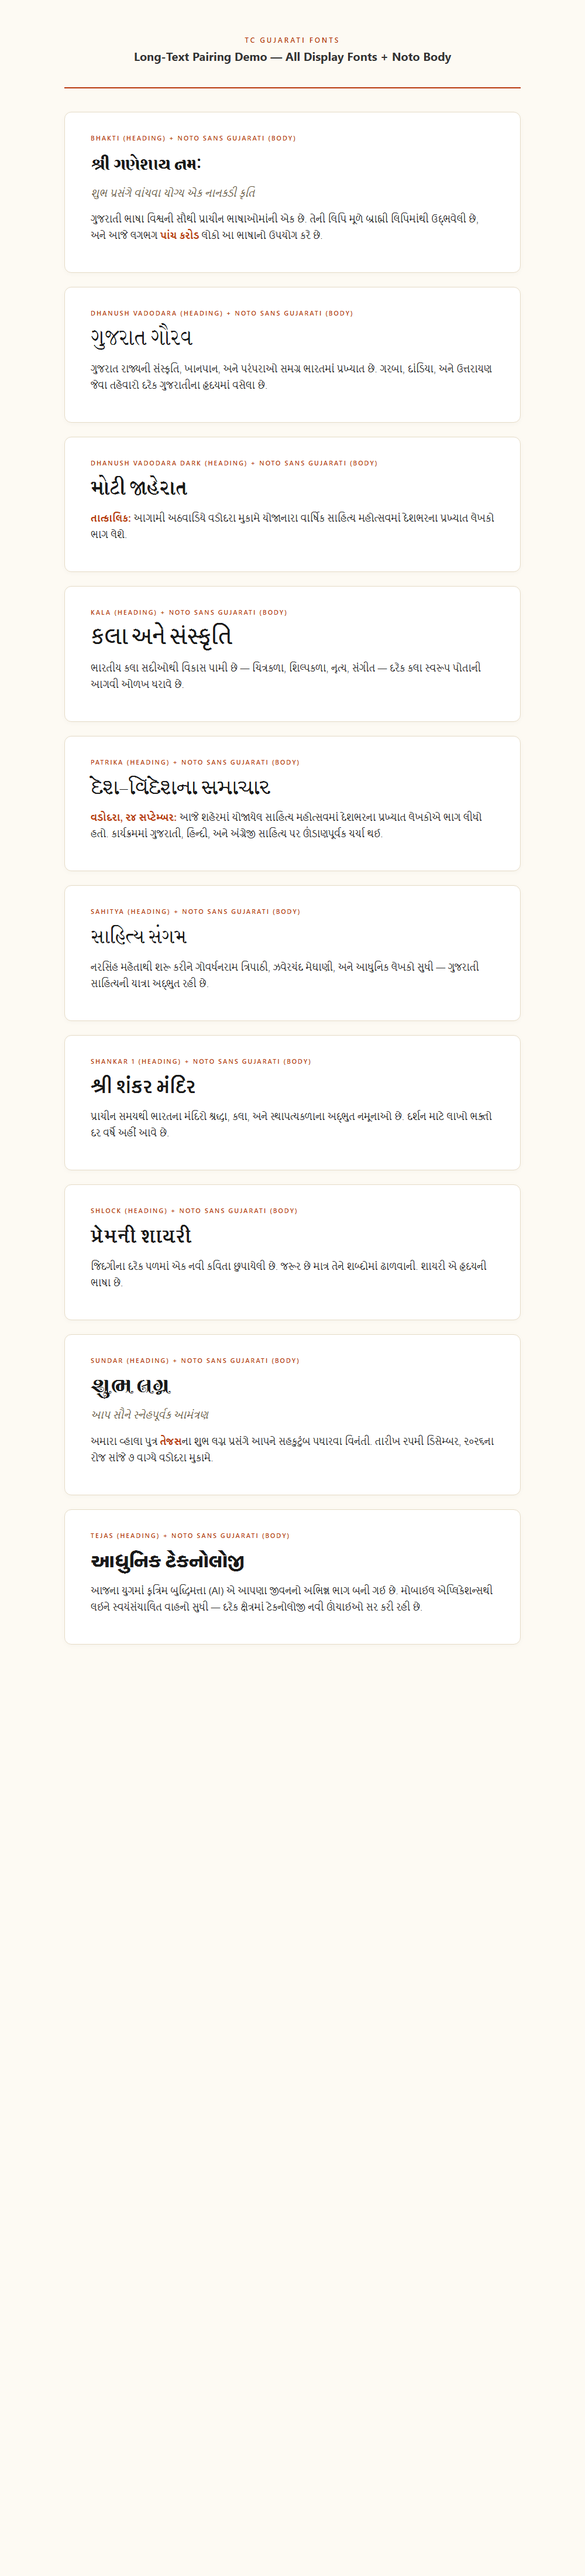
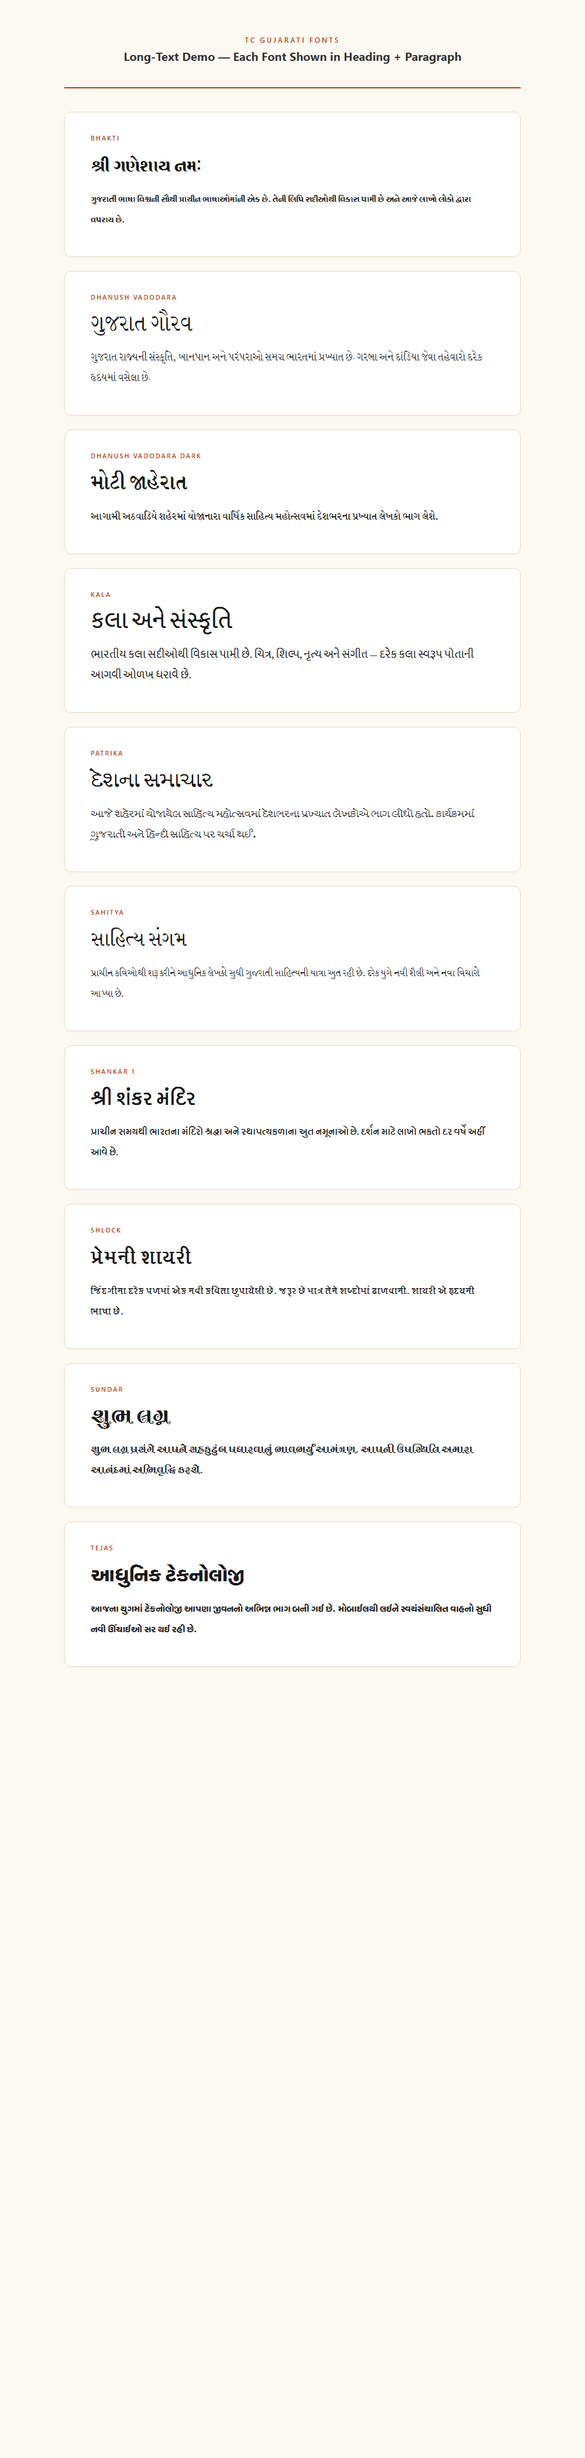
docs: use same display font for heading and body in each sample
- Remove personal names (તેજસ) from wedding sample; use neutral text
- Rewrite each article body to be a short generic sentence
- Set body font to match its heading's display font so each font's full
  personality is visible in a paragraph context
- Regenerate long-text-preview.png

diff --git a/samples/long-text.html b/samples/long-text.html
@@ -2,9 +2,8 @@
 <html lang="gu">
 <head>
 <meta charset="UTF-8">
-<title>Long Text Preview — Display + Body Pairing</title>
+<title>Long Text Preview — Each Font Shown in Full</title>
 <style>
-  /* Display fonts (headings) */
   @font-face { font-family: "Bhakti"; src: url("../fonts/Bhakti.otf"); }
   @font-face { font-family: "Dhanush Vadodara"; src: url("../fonts/Dhanush Vadodara.otf"); }
   @font-face { font-family: "Dhanush Vadodara Dark"; src: url("../fonts/Dhanush Vadodara Dark.otf"); }
@@ -15,18 +14,6 @@
   @font-face { font-family: "Shlock"; src: url("../fonts/Shlock.otf"); }
   @font-face { font-family: "Sundar"; src: url("../fonts/Sundar.otf"); }
   @font-face { font-family: "Tejas"; src: url("../fonts/Tejas.otf"); }
-
-  /* Body font (Noto) */
-  @font-face {
-    font-family: "Noto Sans Gujarati";
-    src: url("../fonts/body/NotoSansGujarati-Regular.ttf");
-    font-weight: 400;
-  }
-  @font-face {
-    font-family: "Noto Sans Gujarati";
-    src: url("../fonts/body/NotoSansGujarati-Bold.ttf");
-    font-weight: 700;
-  }
 
   * { box-sizing: border-box; margin: 0; padding: 0; }
   body {
@@ -69,118 +56,106 @@
     color: #b8390e;
     text-transform: uppercase;
     font-weight: 600;
-    margin-bottom: 8px;
+    margin-bottom: 10px;
   }
   .article-title {
     font-size: 42px;
-    line-height: 1.25;
+    line-height: 1.3;
     color: #1a1a1a;
     margin-bottom: 14px;
   }
-  .article-subtitle {
-    font-family: "Noto Sans Gujarati", sans-serif;
-    font-size: 17px;
-    color: #6b5b45;
-    margin-bottom: 18px;
-    font-style: italic;
-    line-height: 1.5;
-  }
   .article-body {
-    font-family: "Noto Sans Gujarati", sans-serif;
-    font-size: 16px;
+    font-size: 20px;
     line-height: 1.75;
     color: #2a2a2a;
   }
-  .article-body p { margin-bottom: 12px; }
-  .article-body b { font-weight: 700; color: #b8390e; }
+  .article-body p { margin-bottom: 10px; }
 </style>
 </head>
 <body>
 
 <header>
   <div class="kicker">TC Gujarati Fonts</div>
-  <h1>Long-Text Pairing Demo — All Display Fonts + Noto Body</h1>
+  <h1>Long-Text Demo — Each Font Shown in Heading + Paragraph</h1>
 </header>
 
 <article>
-  <div class="display-name">Bhakti (heading) + Noto Sans Gujarati (body)</div>
+  <div class="display-name">Bhakti</div>
   <div class="article-title" style="font-family: 'Bhakti'">શ્રી ગણેશાય નમઃ</div>
-  <div class="article-subtitle">શુભ પ્રસંગે વાંચવા યોગ્ય એક નાનકડી કૃતિ</div>
-  <div class="article-body">
-    <p>ગુજરાતી ભાષા વિશ્વની સૌથી પ્રાચીન ભાષાઓમાંની એક છે. તેની લિપિ મૂળે બ્રાહ્મી લિપિમાંથી ઉદ્ભવેલી છે, અને આજે લગભગ <b>પાંચ કરોડ</b> લોકો આ ભાષાનો ઉપયોગ કરે છે.</p>
+  <div class="article-body" style="font-family: 'Bhakti'">
+    <p>ગુજરાતી ભાષા વિશ્વની સૌથી પ્રાચીન ભાષાઓમાંની એક છે. તેની લિપિ સદીઓથી વિકાસ પામી છે અને આજે લાખો લોકો દ્વારા વપરાય છે.</p>
   </div>
 </article>
 
 <article>
-  <div class="display-name">Dhanush Vadodara (heading) + Noto Sans Gujarati (body)</div>
+  <div class="display-name">Dhanush Vadodara</div>
   <div class="article-title" style="font-family: 'Dhanush Vadodara'">ગુજરાત ગૌરવ</div>
-  <div class="article-body">
-    <p>ગુજરાત રાજ્યની સંસ્કૃતિ, ખાનપાન, અને પરંપરાઓ સમગ્ર ભારતમાં પ્રખ્યાત છે. ગરબા, દાંડિયા, અને ઉત્તરાયણ જેવા તહેવારો દરેક ગુજરાતીના હૃદયમાં વસેલા છે.</p>
+  <div class="article-body" style="font-family: 'Dhanush Vadodara'">
+    <p>ગુજરાત રાજ્યની સંસ્કૃતિ, ખાનપાન અને પરંપરાઓ સમગ્ર ભારતમાં પ્રખ્યાત છે. ગરબા અને દાંડિયા જેવા તહેવારો દરેક હૃદયમાં વસેલા છે.</p>
   </div>
 </article>
 
 <article>
-  <div class="display-name">Dhanush Vadodara Dark (heading) + Noto Sans Gujarati (body)</div>
+  <div class="display-name">Dhanush Vadodara Dark</div>
   <div class="article-title" style="font-family: 'Dhanush Vadodara Dark'">મોટી જાહેરાત</div>
-  <div class="article-body">
-    <p><b>તાત્કાલિક:</b> આગામી અઠવાડિયે વડોદરા મુકામે યોજાનારા વાર્ષિક સાહિત્ય મહોત્સવમાં દેશભરના પ્રખ્યાત લેખકો ભાગ લેશે.</p>
+  <div class="article-body" style="font-family: 'Dhanush Vadodara Dark'">
+    <p>આગામી અઠવાડિયે શહેરમાં યોજાનારા વાર્ષિક સાહિત્ય મહોત્સવમાં દેશભરના પ્રખ્યાત લેખકો ભાગ લેશે.</p>
   </div>
 </article>
 
 <article>
-  <div class="display-name">Kala (heading) + Noto Sans Gujarati (body)</div>
+  <div class="display-name">Kala</div>
   <div class="article-title" style="font-family: 'Kala'">કલા અને સંસ્કૃતિ</div>
-  <div class="article-body">
-    <p>ભારતીય કલા સદીઓથી વિકાસ પામી છે — ચિત્રકળા, શિલ્પકળા, નૃત્ય, સંગીત — દરેક કલા સ્વરૂપ પોતાની આગવી ઓળખ ધરાવે છે.</p>
+  <div class="article-body" style="font-family: 'Kala'">
+    <p>ભારતીય કલા સદીઓથી વિકાસ પામી છે. ચિત્ર, શિલ્પ, નૃત્ય અને સંગીત — દરેક કલા સ્વરૂપ પોતાની આગવી ઓળખ ધરાવે છે.</p>
   </div>
 </article>
 
 <article>
-  <div class="display-name">Patrika (heading) + Noto Sans Gujarati (body)</div>
-  <div class="article-title" style="font-family: 'Patrika'">દેશ-વિદેશના સમાચાર</div>
-  <div class="article-body">
-    <p><b>વડોદરા, ૨૪ સપ્ટેમ્બર:</b> આજે શહેરમાં યોજાયેલ સાહિત્ય મહોત્સવમાં દેશભરના પ્રખ્યાત લેખકોએ ભાગ લીધો હતો. કાર્યક્રમમાં ગુજરાતી, હિન્દી, અને અંગ્રેજી સાહિત્ય પર ઊંડાણપૂર્વક ચર્ચા થઈ.</p>
+  <div class="display-name">Patrika</div>
+  <div class="article-title" style="font-family: 'Patrika'">દેશના સમાચાર</div>
+  <div class="article-body" style="font-family: 'Patrika'">
+    <p>આજે શહેરમાં યોજાયેલ સાહિત્ય મહોત્સવમાં દેશભરના પ્રખ્યાત લેખકોએ ભાગ લીધો હતો. કાર્યક્રમમાં ગુજરાતી અને હિન્દી સાહિત્ય પર ચર્ચા થઈ.</p>
   </div>
 </article>
 
 <article>
-  <div class="display-name">Sahitya (heading) + Noto Sans Gujarati (body)</div>
+  <div class="display-name">Sahitya</div>
   <div class="article-title" style="font-family: 'Sahitya'">સાહિત્ય સંગમ</div>
-  <div class="article-body">
-    <p>નરસિંહ મહેતાથી શરૂ કરીને ગોવર્ધનરામ ત્રિપાઠી, ઝવેરચંદ મેઘાણી, અને આધુનિક લેખકો સુધી — ગુજરાતી સાહિત્યની યાત્રા અદ્ભુત રહી છે.</p>
+  <div class="article-body" style="font-family: 'Sahitya'">
+    <p>પ્રાચીન કવિઓથી શરૂ કરીને આધુનિક લેખકો સુધી ગુજરાતી સાહિત્યની યાત્રા અદ્ભુત રહી છે. દરેક યુગે નવી શૈલી અને નવા વિચારો આપ્યા છે.</p>
   </div>
 </article>
 
 <article>
-  <div class="display-name">Shankar 1 (heading) + Noto Sans Gujarati (body)</div>
+  <div class="display-name">Shankar 1</div>
   <div class="article-title" style="font-family: 'Shankar'">શ્રી શંકર મંદિર</div>
-  <div class="article-body">
-    <p>પ્રાચીન સમયથી ભારતના મંદિરો શ્રદ્ધા, કલા, અને સ્થાપત્યકળાના અદ્ભુત નમૂનાઓ છે. દર્શન માટે લાખો ભક્તો દર વર્ષે અહીં આવે છે.</p>
+  <div class="article-body" style="font-family: 'Shankar'">
+    <p>પ્રાચીન સમયથી ભારતના મંદિરો શ્રદ્ધા અને સ્થાપત્યકળાના અદ્ભુત નમૂનાઓ છે. દર્શન માટે લાખો ભક્તો દર વર્ષે અહીં આવે છે.</p>
   </div>
 </article>
 
 <article>
-  <div class="display-name">Shlock (heading) + Noto Sans Gujarati (body)</div>
+  <div class="display-name">Shlock</div>
   <div class="article-title" style="font-family: 'Shlock'">પ્રેમની શાયરી</div>
-  <div class="article-body">
+  <div class="article-body" style="font-family: 'Shlock'">
     <p>જિંદગીના દરેક પળમાં એક નવી કવિતા છુપાયેલી છે. જરૂર છે માત્ર તેને શબ્દોમાં ઢાળવાની. શાયરી એ હૃદયની ભાષા છે.</p>
   </div>
 </article>
 
 <article>
-  <div class="display-name">Sundar (heading) + Noto Sans Gujarati (body)</div>
+  <div class="display-name">Sundar</div>
   <div class="article-title" style="font-family: 'Sundar'">શુભ લગ્ન</div>
-  <div class="article-subtitle">આપ સૌને સ્નેહપૂર્વક આમંત્રણ</div>
-  <div class="article-body">
-    <p>અમારા વ્હાલા પુત્ર <b>તેજસ</b>ના શુભ લગ્ન પ્રસંગે આપને સહકુટુંબ પધારવા વિનંતી. તારીખ ૨૫મી ડિસેમ્બર, ૨૦૨૬ના રોજ સાંજે ૭ વાગ્યે વડોદરા મુકામે.</p>
+  <div class="article-body" style="font-family: 'Sundar'">
+    <p>શુભ લગ્ન પ્રસંગે આપને સહકુટુંબ પધારવાનું ભાવભર્યું આમંત્રણ. આપની ઉપસ્થિતિ અમારા આનંદમાં અભિવૃદ્ધિ કરશે.</p>
   </div>
 </article>
 
 <article>
-  <div class="display-name">Tejas (heading) + Noto Sans Gujarati (body)</div>
+  <div class="display-name">Tejas</div>
   <div class="article-title" style="font-family: 'Tejas'">આધુનિક ટેકનોલોજી</div>
-  <div class="article-body">
-    <p>આજના યુગમાં કૃત્રિમ બુદ્ધિમત્તા (AI) એ આપણા જીવનનો અભિન્ન ભાગ બની ગઈ છે. મોબાઈલ એપ્લિકેશન્સથી લઈને સ્વયંસંચાલિત વાહનો સુધી — દરેક ક્ષેત્રમાં ટેકનોલોજી નવી ઊંચાઈઓ સર કરી રહી છે.</p>
+  <div class="article-body" style="font-family: 'Tejas'">
+    <p>આજના યુગમાં ટેકનોલોજી આપણા જીવનનો અભિન્ન ભાગ બની ગઈ છે. મોબાઈલથી લઈને સ્વયંસંચાલિત વાહનો સુધી નવી ઊંચાઈઓ સર થઈ રહી છે.</p>
   </div>
 </article>
 
